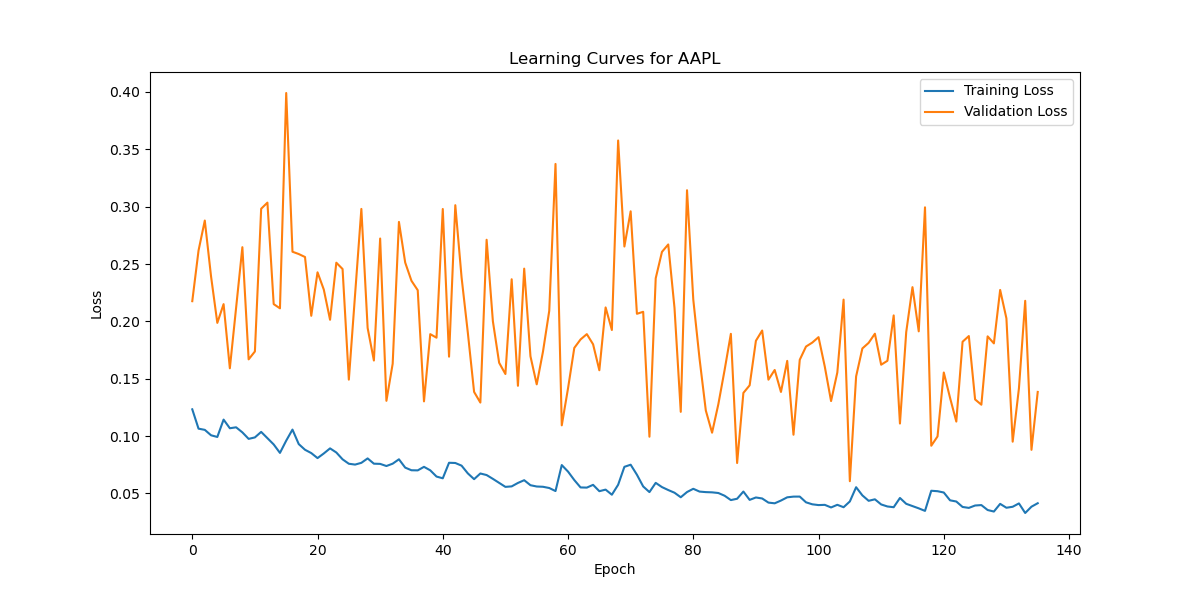
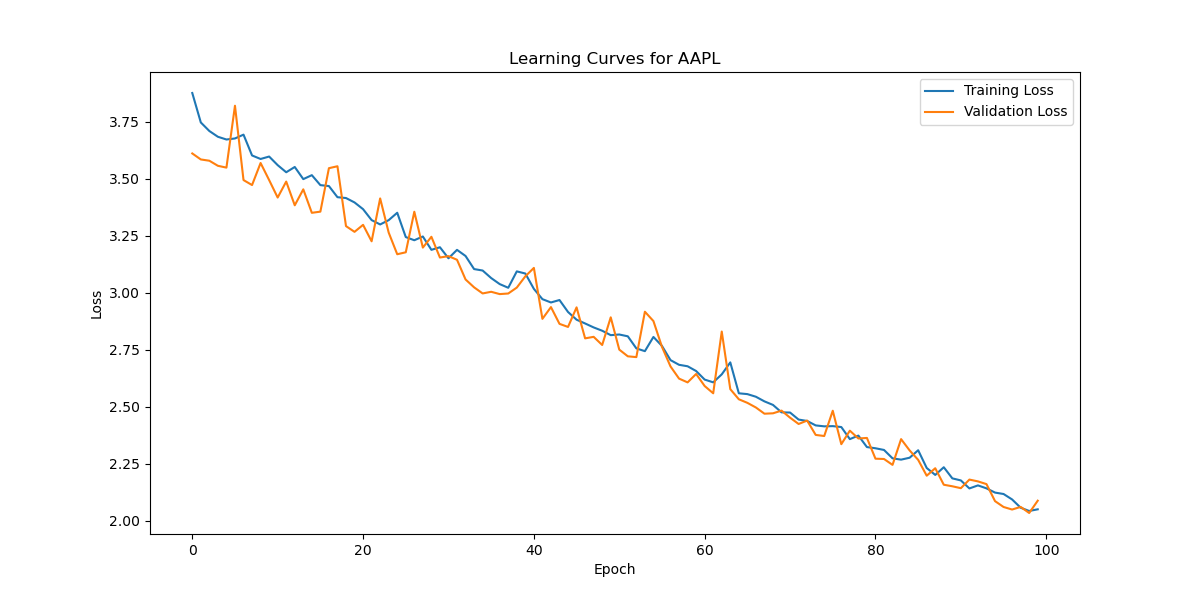
TODO: try random hyperparameters

diff --git a/train.py b/train.py
@@ -1,34 +1,25 @@
 '''
-Dynamic Charts: Allow users to interact with stock price charts, zoom in on specific time periods,
-and view detailed data points.
-
-Heatmaps: Use heatmaps to show market trends and highlight significant changes in stock prices.
-
-Risk Assessment: Provide tools for users to assess the risk of their portfolios and suggest ways to
-diversify and mitigate risk.
-
-Performance Tracking: Allow users to track the performance of their portfolios over time and compare
-it to market benchmarks.
-
+Data Caching
+Heatmaps
+Risk Assessment
 LLM to suggest portfolio
-
-anomaly detection
 '''
 import matplotlib.pyplot as plt
 import numpy as np
-from sklearn.metrics import mean_squared_error, mean_absolute_percentage_error, mean_absolute_error
-from sklearn.model_selection import RandomizedSearchCV, TimeSeriesSplit
+from sklearn.metrics import mean_squared_error
 from tensorflow.keras.callbacks import EarlyStopping
 from tensorflow.keras.models import Model, load_model
 from tensorflow.keras.layers import Dense, LSTM, Input, Multiply, Dropout, Bidirectional, LayerNormalization
 from tensorflow.keras.regularizers import l2
-from tensorflow.keras.wrappers.scikit_learn import KerasRegressor
+from scikeras.wrappers import KerasRegressor
+from sklearn.model_selection import train_test_split
 from dataprocessing import dataprocessing
 import tensorflow as tf
 from scipy.stats import randint, uniform
 import joblib
 import os
-
+from skopt import BayesSearchCV
+from skopt.space import Real, Integer
 
 
 
@@ -51,22 +42,54 @@ def load_model_and_params(model_filename, params_filename):
 
 
 
-def time_series_cv(model, X, y, n_splits=5):
-    tscv = TimeSeriesSplit(n_splits=n_splits)
-    mape_scores = []
-    mae_scores = []
-    
-    for train_index, test_index in tscv.split(X):
-        X_train, X_test = X[train_index], X[test_index]
-        y_train, y_test = y[train_index], y[test_index]
-        
-        model.fit(X_train, y_train)
-        y_pred = model.predict(X_test)
-        
-        mape_scores.append(mean_absolute_percentage_error(y_test, y_pred))
-        mae_scores.append(mean_absolute_error(y_test, y_pred))
-    
-    return np.mean(mape_scores), np.mean(mae_scores)
+from scikeras.wrappers import KerasRegressor
+from sklearn.model_selection import train_test_split
+
+# ... (other imports remain the same)
+
+def bayesian_hyperparameter_tuning(x_train, y_train, x_val, y_val):
+    # Define the search space
+    search_spaces = {
+        'model__units': Integer(32, 256),
+        'model__learning_rate': Real(1e-4, 1e-1, prior='log-uniform'),
+        'model__dropout_rate': Real(0.1, 0.5),
+        'model__l2_reg': Real(1e-6, 1e-2, prior='log-uniform'),
+    }
+
+    # Create a custom scoring function that uses the validation set
+    def custom_scorer(estimator, X, y):
+        y_pred = estimator.predict(x_val)
+        return -mean_squared_error(y_val, y_pred)
+
+    # Create the KerasRegressor
+    model = KerasRegressor(
+        model=create_model,
+        loss='mean_squared_error',
+        optimizer='adam',
+        metrics=['mse'],
+        verbose=0
+    )
+
+    # Create the BayesSearchCV object
+    bayes_search = BayesSearchCV(
+        estimator=model,
+        search_spaces=search_spaces,
+        n_iter=50,  # Number of parameter settings that are sampled
+        cv=[(slice(None), slice(None))],  # Use all training data
+        n_jobs=-1,  # Use all available cores
+        verbose=1,
+        scoring=custom_scorer,
+        random_state=42
+    )
+
+    # Fit the BayesSearchCV object to the data
+    bayes_search.fit(x_train, y_train)
+
+    # Print the best parameters and score
+    print("Best parameters found: ", bayes_search.best_params_)
+    print("Best validation MSE: ", -bayes_search.best_score_)
+
+    return bayes_search.best_params_
 
 
 
@@ -162,37 +185,28 @@ if os.path.exists(MODEL_FILE) and os.path.exists(PARAMS_FILE):
     print("Loading existing model and parameters...")
     best_model, best_params = load_model_and_params(MODEL_FILE, PARAMS_FILE)
 else:
-    print("No existing model found. Running RandomizedSearchCV...")
-    param_distributions = {
-        'units': randint(32, 256),
-        'learning_rate': uniform(0.0001, 0.1),
-        'epochs': randint(50, 300),
-        'dropout_rate': uniform(0.1, 0.5),
-        'l2_reg': uniform(0.0001, 0.1)
-    }
+    print("No existing model found. Running Bayesian hyperparameter tuning...")
 
-    random_search = RandomizedSearchCV(estimator=model, param_distributions=param_distributions, 
-                                       n_iter=20, cv=TimeSeriesSplit(n_splits=5), 
-                                       verbose=2, n_jobs=-1, scoring='neg_mean_absolute_error')
+    x_train_tune, x_val, y_train_tune, y_val = train_test_split(
+    x_train[tech_list[0]], y_train[tech_list[0]], test_size=0.2, random_state=42
+    )
+
+    best_params = bayesian_hyperparameter_tuning(x_train_tune, y_train_tune, x_val, y_val)
+
+    # Update the create_model call
+    best_model = create_model(units=best_params['model__units'],
+                            learning_rate=best_params['model__learning_rate'],
+                            dropout_rate=best_params['model__dropout_rate'],
+                            l2_reg=best_params['model__l2_reg'])
     
-    random_search_result = random_search.fit(x_train[tech_list[0]], y_train[tech_list[0]])
-
-    print("Best: %f using %s" % (random_search_result.best_score_, random_search_result.best_params_))
-
-    best_model = create_model(units=random_search_result.best_params_['units'],
-                              learning_rate=random_search_result.best_params_['learning_rate'],
-                              dropout_rate=random_search_result.best_params_['dropout_rate'],
-                              l2_reg=random_search_result.best_params_['l2_reg'])
-
-    save_model_and_params(best_model, random_search_result.best_params_, MODEL_FILE, PARAMS_FILE)
-    best_params = random_search_result.best_params_
+    save_model_and_params(best_model, best_params, MODEL_FILE, PARAMS_FILE)
 
 early_stop = EarlyStopping(monitor='val_loss', patience=30, restore_best_weights=True)
 
 for stock in tech_list:
     history = best_model.fit(x_train[stock], y_train[stock], 
                              batch_size=64, 
-                             epochs=best_params['epochs'], 
+                             epochs=100, 
                              validation_data=(x_test[stock], y_test[stock]),  # Use test data for validation
                              callbacks=[early_stop], 
                              verbose=1)

diff --git a/dataprocessing.py b/dataprocessing.py
@@ -23,7 +23,7 @@ def add_technical_indicators(df):
 
 def dataprocessing(tech_list):
     end = datetime.now()
-    start = end - timedelta(days=365*2)  # Get 2 years of data
+    start = end - timedelta(days=365*5)  # Get 2 years of data
 
     stock_data = {}
     for stock in tech_list:
@@ -57,8 +57,10 @@ def dataprocessing(tech_list):
             x_temp.append(scaled_data[i-sequence_length:i])
             y_temp.append(scaled_data[i, 3])  # Predicting the Close price
         
-        x_train[stock] = np.array(x_temp)
-        y_train[stock] = np.array(y_temp)
+        x_temp = np.array(x_temp)
+        y_temp = np.array(y_temp)
+        x_train[stock] = x_temp
+        y_train[stock] = y_temp
         
         x_train[stock], x_test[stock], y_train[stock], y_test[stock] = train_test_split(
             x_temp, y_temp, test_size=0.2, random_state=42, shuffle=False
